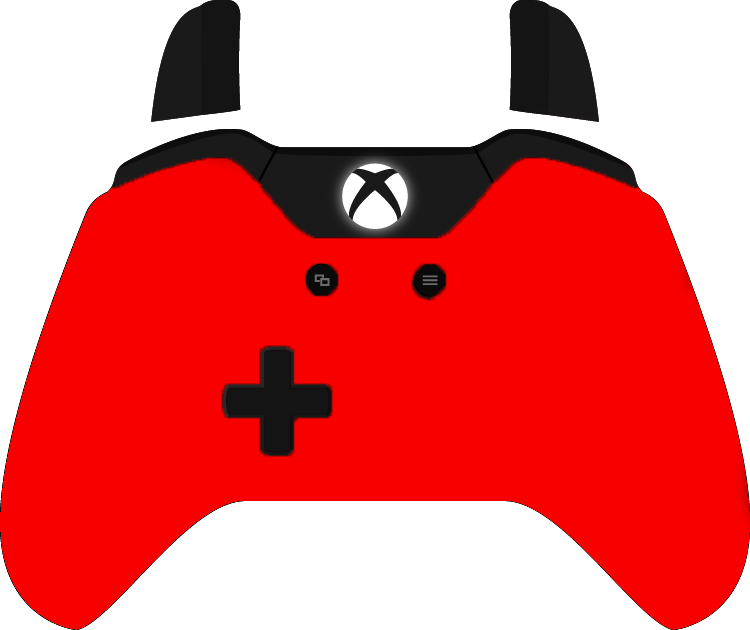
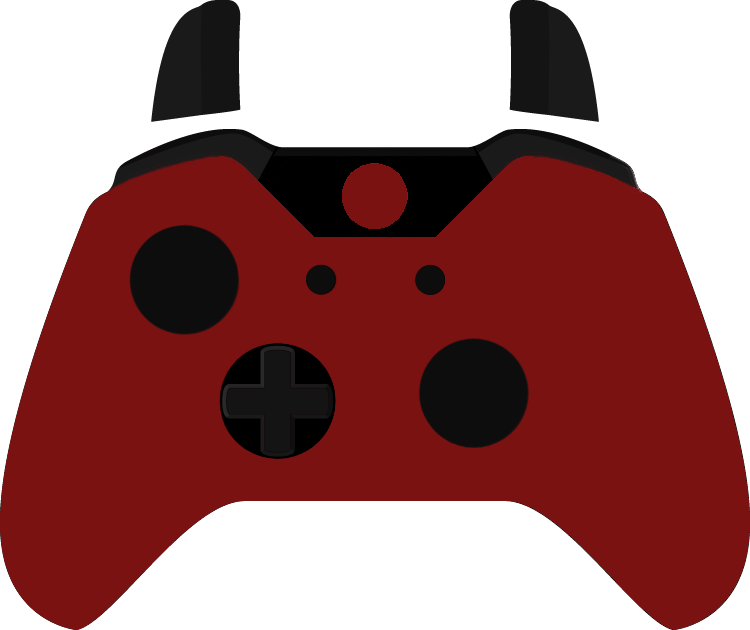
Add files via upload

diff --git a/Final/final.css b/Final/final.css
@@ -103,6 +103,14 @@
     left: 288px;
 }
 
+.xbox .dpad {
+    position: absolute;
+    width: 110px;
+    height: 111px;
+    top: 345px;
+    left: 223px;
+}
+
 .xbox .face {
     background: url(xbox-assets/dpad.svgz);
     position: absolute;
